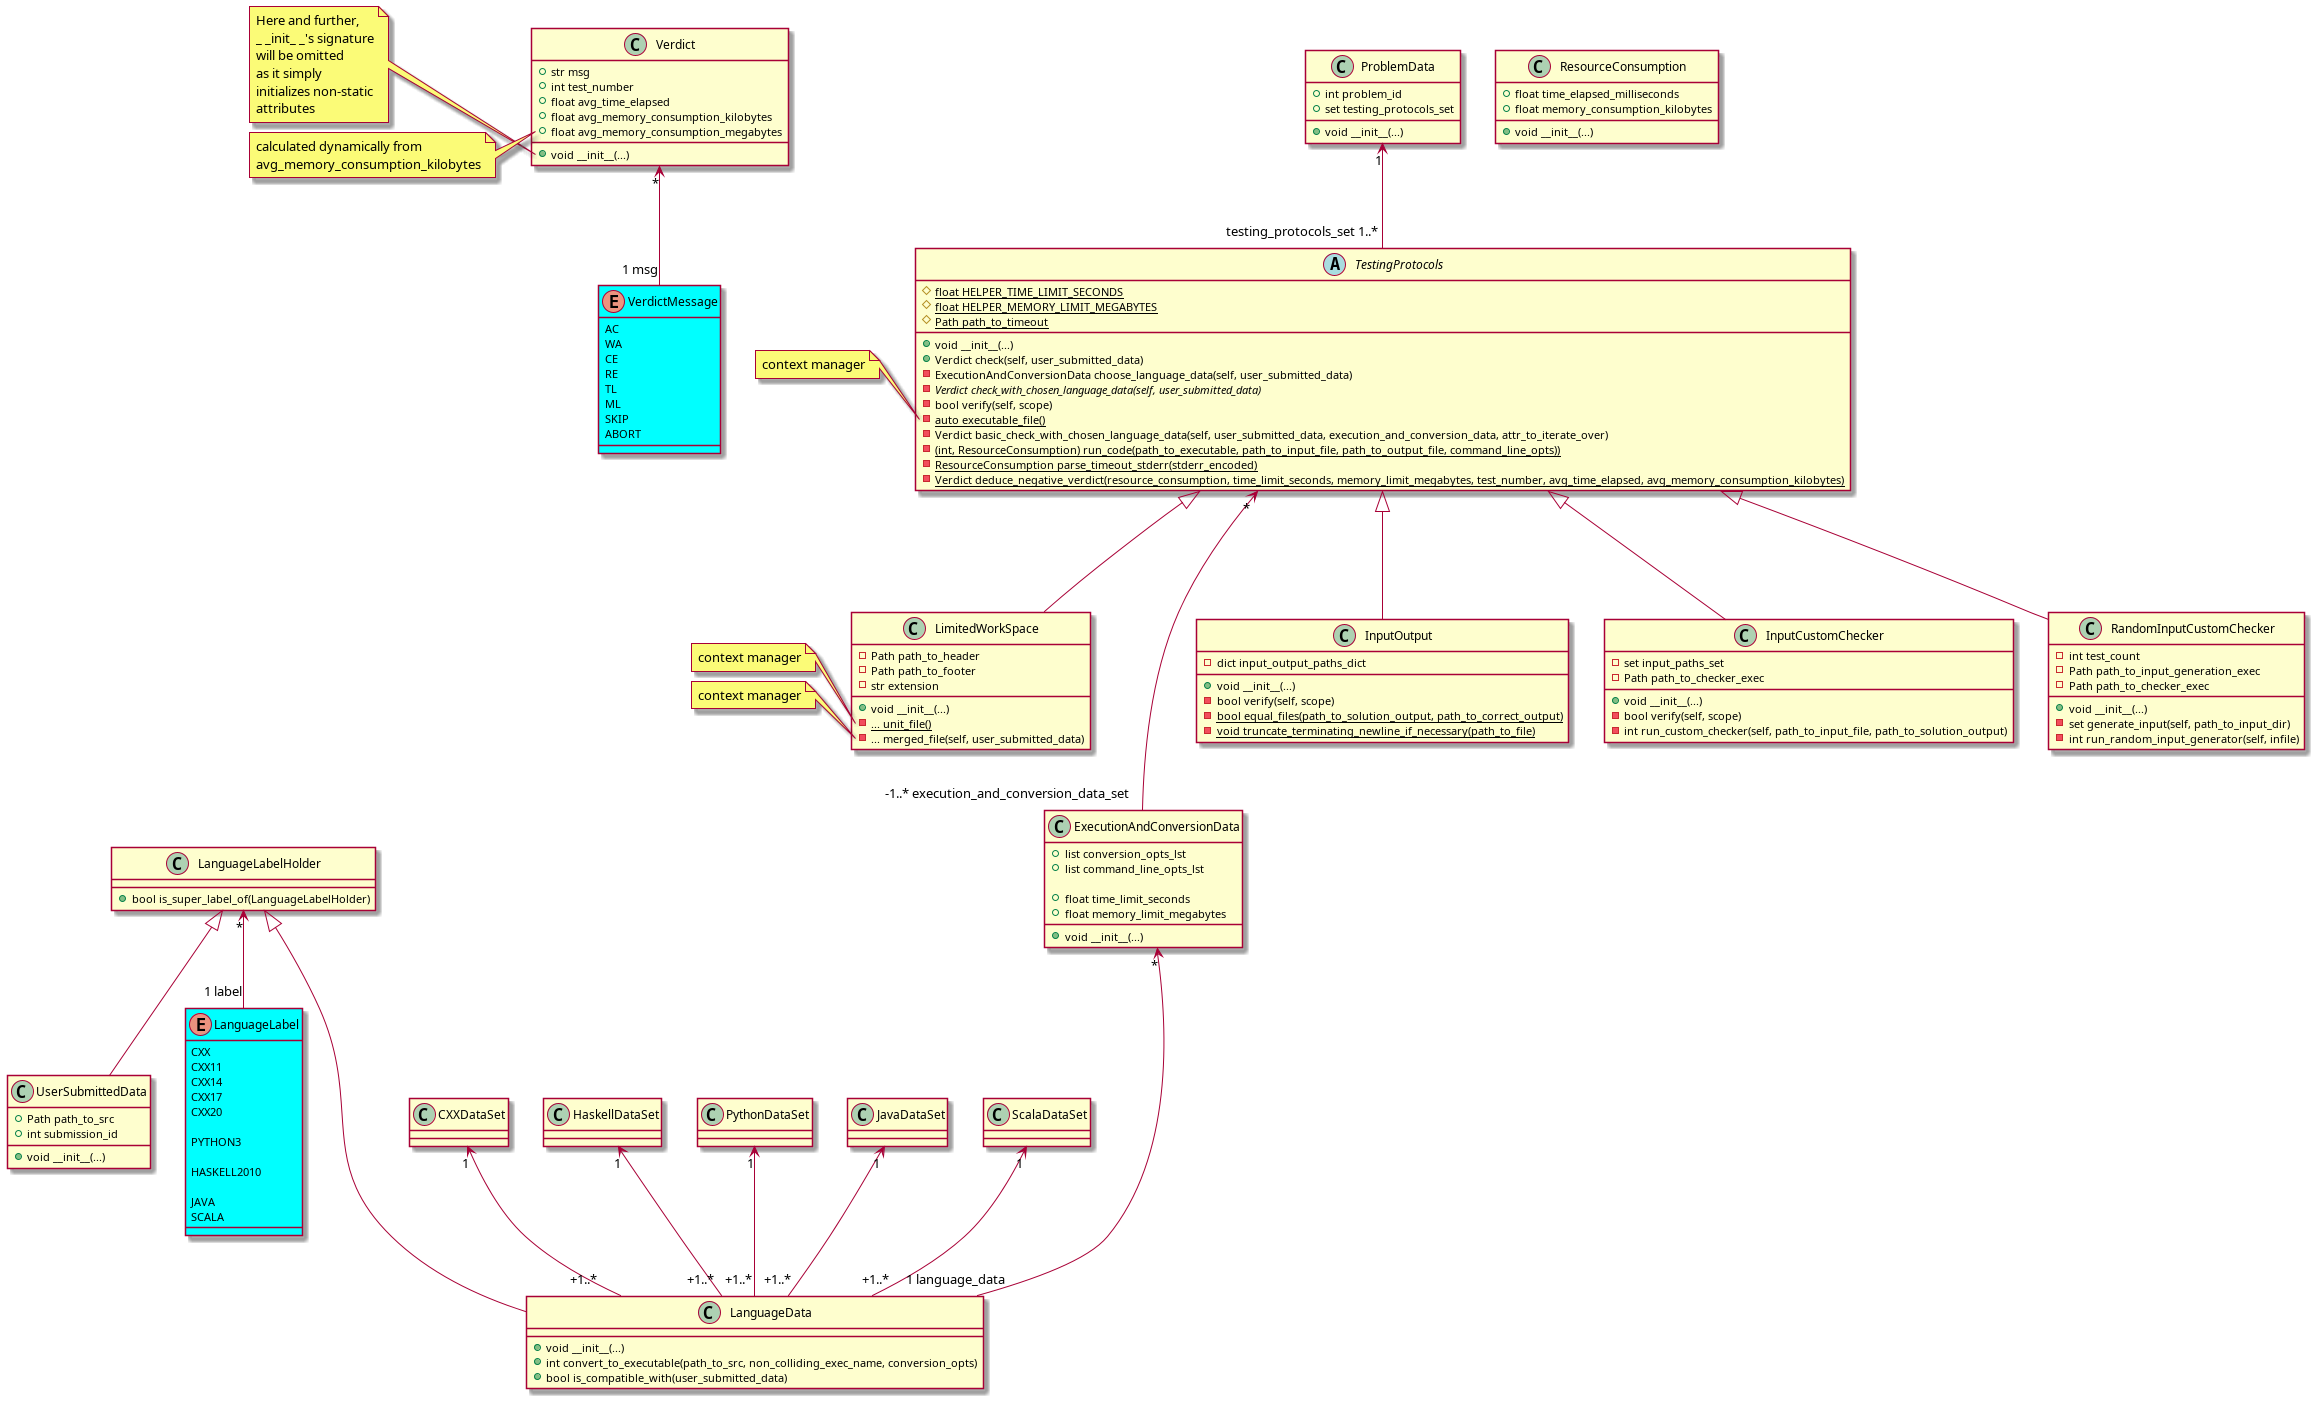
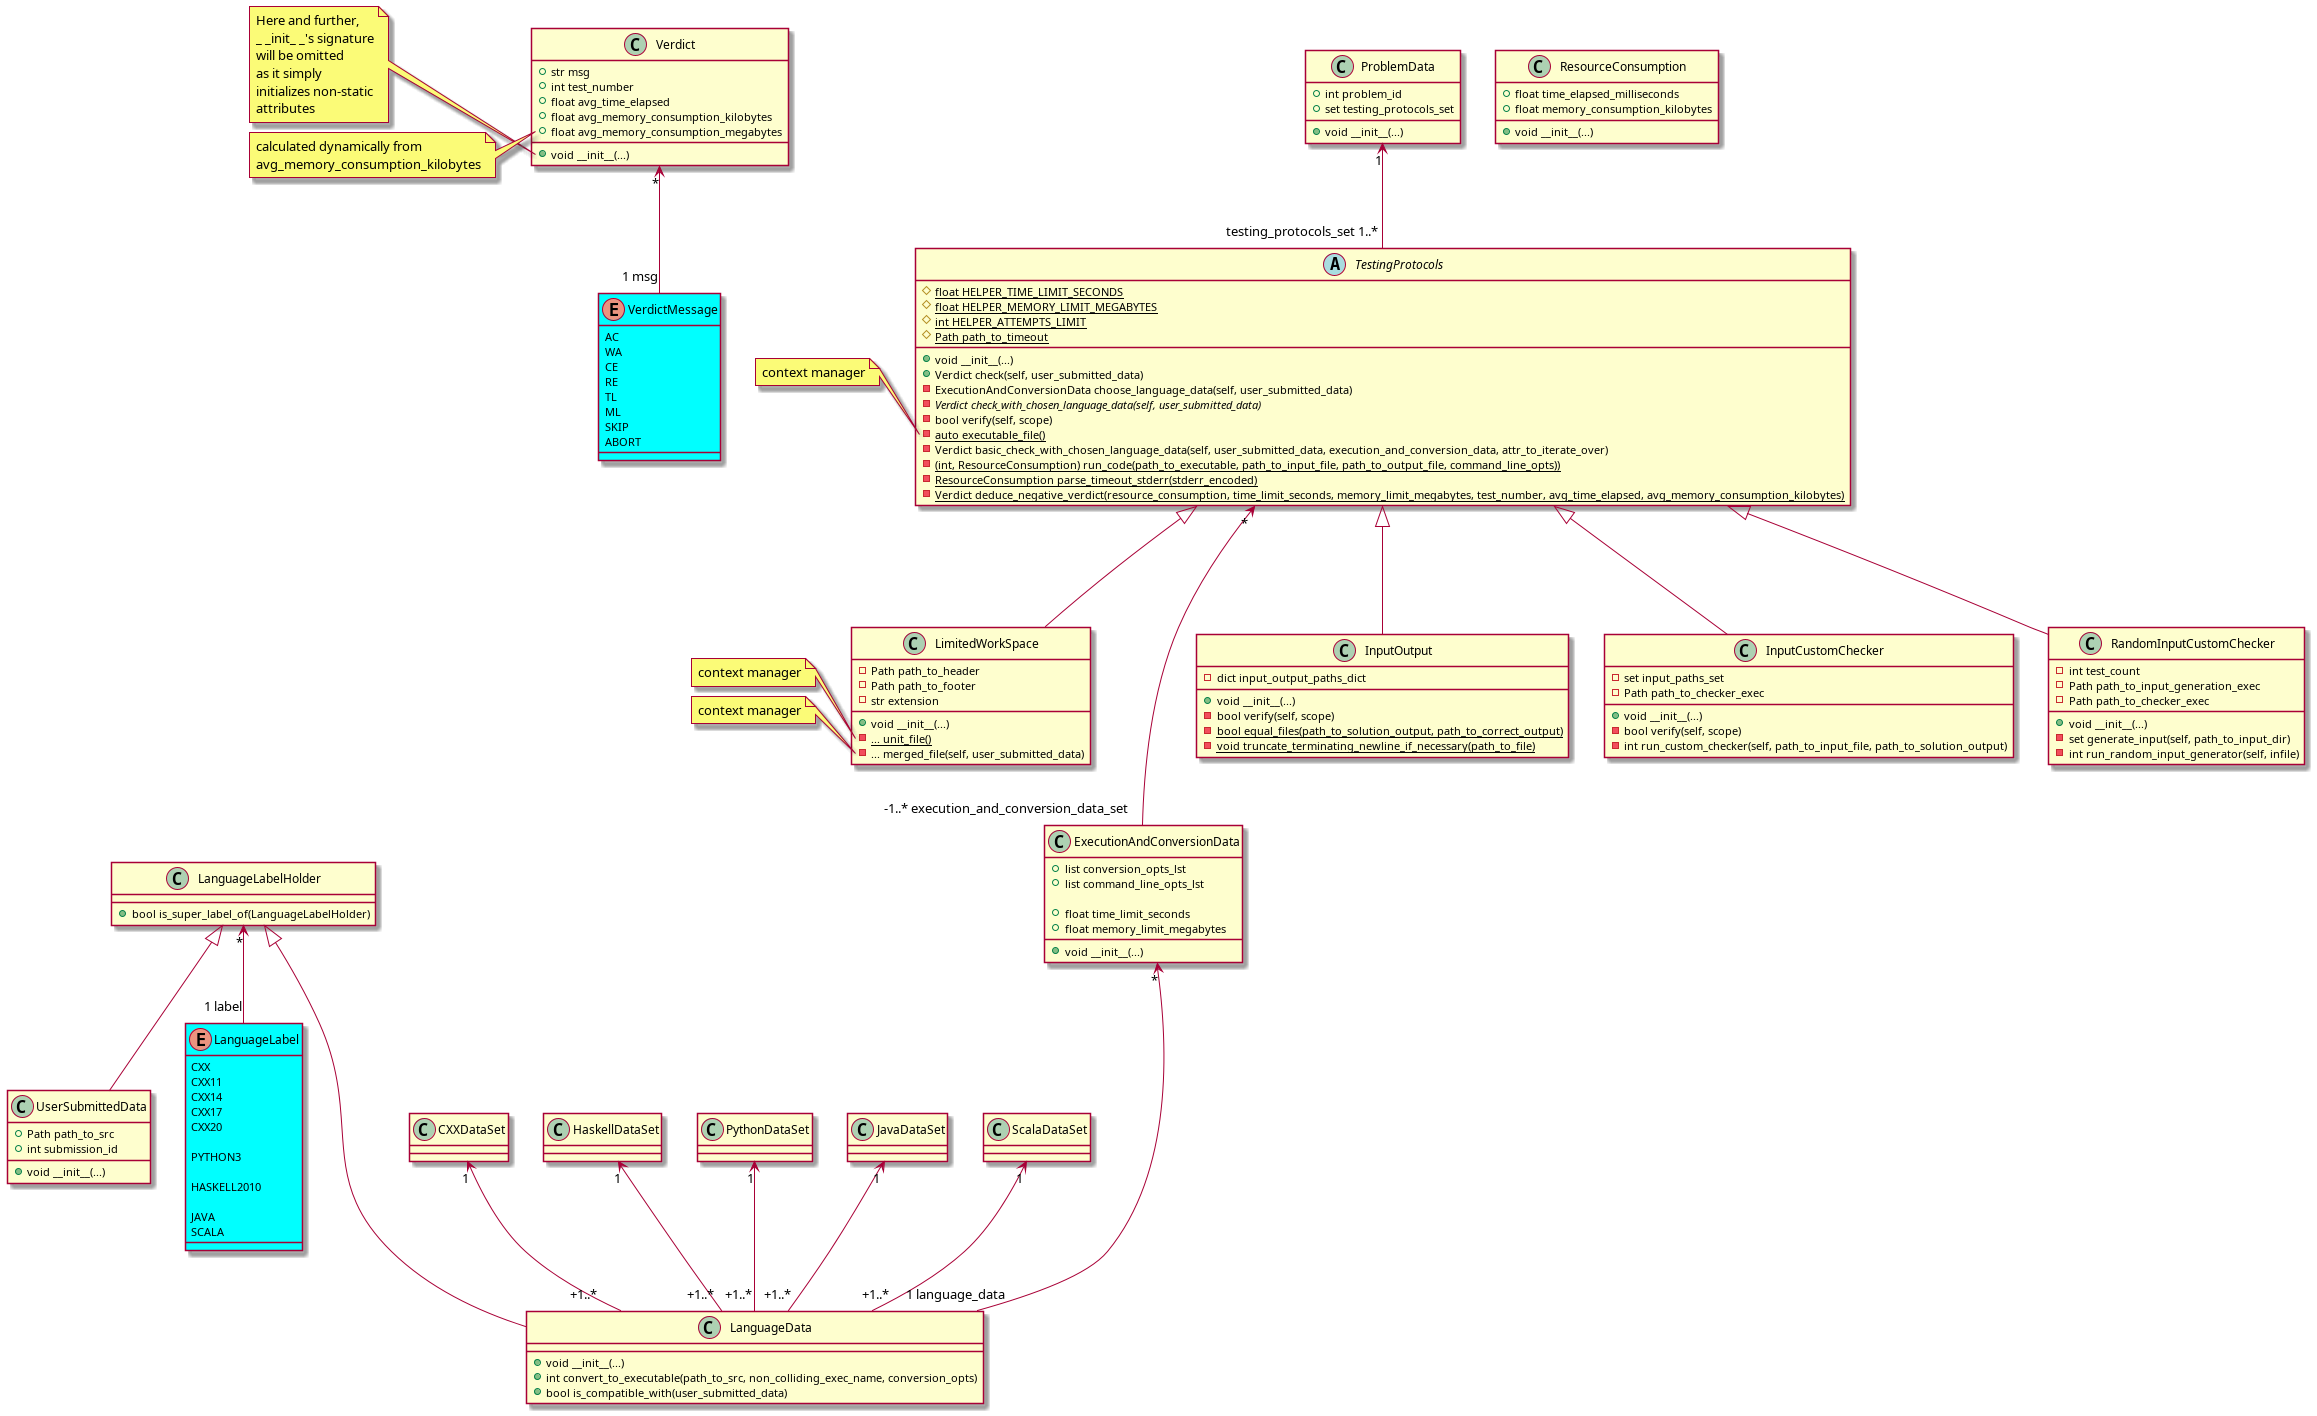
Added ABORT test for timelimit

diff --git a/TestingSystem/TestingProtocols/sample_tests/test_python3.py b/TestingSystem/TestingProtocols/sample_tests/test_python3.py
@@ -1,6 +1,6 @@
 import unittest
 from base_test_case import BaseTestCase
-from testing_protocols import InputOutput, InputCustomChecker, RandomInputCustomChecker, LimitedWorkSpace, \
+from testing_protocols import TestingProtocol, InputOutput, InputCustomChecker, RandomInputCustomChecker, LimitedWorkSpace, \
     UserSubmittedData, VerdictMessage
 from language_support import python_data, LanguageLabel, ExecutionAndConversionData
 
@@ -26,6 +26,12 @@ user_submitted_data_to_expected_verdict_generator = \
          VerdictMessage.ML,
          VerdictMessage.SKIP]
     )
+
+
+user_submitted_data_to_expected_verdict_generator_for_faulty_protocols = \
+            BaseTestCase.standard_user_submitted_data_to_expected_verdict_generator(
+                [VerdictMessage.ABORT]
+            )
 
 
 class Python3Test(BaseTestCase):
@@ -96,6 +102,49 @@ class Python3Test(BaseTestCase):
             limited_work_space,
             user_submitted_data_to_expected_verdict=user_submitted_data_to_expected_verdict
         )
+
+    def test_abort_in_custom(self):
+        faulty_in_custom = InputCustomChecker(
+            input_paths_set={"in_custom_tests/1.in",
+                             "in_custom_tests/2.in",
+                             "in_custom_tests/3.in"},
+            path_to_checker_exec='in_custom_tests/memory_leak_checker.out',
+            execution_and_conversion_data_set=python_execution_and_conversion_data_set
+        )
+
+        aborted = UserSubmittedData('accepted.py', 1, LanguageLabel.PYTHON3)
+
+        user_submitted_data_to_expected_verdict = \
+            user_submitted_data_to_expected_verdict_generator_for_faulty_protocols().evaluate(locals())
+        self.run_tests(
+            faulty_in_custom,
+            user_submitted_data_to_expected_verdict=user_submitted_data_to_expected_verdict
+        )
+
+    def test_abort_rand_custom(self):
+        faulty_rand_custom = RandomInputCustomChecker(
+            test_count=3,
+            path_to_input_generation_exec='rand_custom_tests/time_limit_generator.out',
+            path_to_checker_exec='rand_custom_tests/custom_checker.out',
+            execution_and_conversion_data_set=python_execution_and_conversion_data_set
+        )
+
+        aborted = UserSubmittedData('accepted.py', 1, LanguageLabel.PYTHON3)
+
+        user_submitted_data_to_expected_verdict = \
+            user_submitted_data_to_expected_verdict_generator_for_faulty_protocols().evaluate(locals())
+
+        # a bit of mockery
+        initial_time_limit = TestingProtocol.HELPER_TIME_LIMIT_SECONDS
+        initial_attempt_limit = TestingProtocol.HELPER_ATTEMPTS_LIMIT
+        TestingProtocol.HELPER_TIME_LIMIT_SECONDS = 0.1
+        TestingProtocol.HELPER_ATTEMPTS_LIMIT = 2
+        self.run_tests(
+            faulty_rand_custom,
+            user_submitted_data_to_expected_verdict=user_submitted_data_to_expected_verdict
+        )
+        TestingProtocol.HELPER_TIME_LIMIT_SECONDS = initial_time_limit
+        TestingProtocol.HELPER_ATTEMPTS_LIMIT = initial_attempt_limit
 
 
 if __name__ == '__main__':

diff --git a/TestingSystem/TestingProtocols/testing_protocols/__init__.py b/TestingSystem/TestingProtocols/testing_protocols/__init__.py
@@ -239,6 +239,7 @@ class TestingProtocol(ABC):
 
     HELPER_TIME_LIMIT_SECONDS = 8
     HELPER_MEMORY_LIMIT_MEGABYTES = 1024
+    HELPER_ATTEMPTS_LIMIT = 20
     path_to_timeout = os.path.relpath(Path(os.path.dirname(__file__)) / '../timeout/timeout')
 
 
@@ -330,11 +331,11 @@ class RandomInputCustomChecker(TestingProtocol):
             path_to_storage.touch()
             with open(path_to_storage, 'w') as storage:
                 return_code = -1
-                tries_left = 20
-                while return_code != 0 and tries_left > 0:
+                attempts_left = TestingProtocol.HELPER_ATTEMPTS_LIMIT
+                while return_code != 0 and attempts_left > 0:
                     return_code = self.run_random_input_generator(storage=storage)
-                    tries_left -= 1
-                if tries_left == 0:
+                    attempts_left -= 1
+                if attempts_left == 0:
                     return None
             input_paths_set.add(path_to_storage)
         return input_paths_set

diff --git a/TestingSystem/TestingProtocols/sample_tests/base_test_case.py b/TestingSystem/TestingProtocols/sample_tests/base_test_case.py
@@ -26,7 +26,8 @@ class BaseTestCase(unittest.TestCase):
                 VerdictMessage.RE: f'{prefix}runtime_error',
                 VerdictMessage.TL: f'{prefix}time_limit',
                 VerdictMessage.ML: f'{prefix}memory_limit',
-                VerdictMessage.SKIP: f'{prefix}skipped'
+                VerdictMessage.SKIP: f'{prefix}skipped',
+                VerdictMessage.ABORT: f'{prefix}aborted'
             }
 
             keys_to_vals = map(
